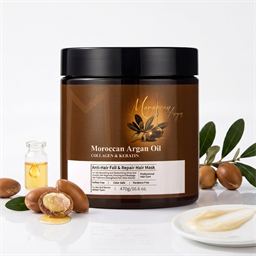
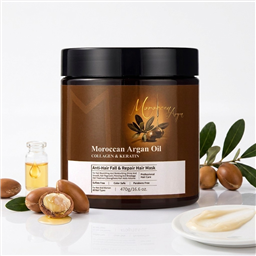
Add keratin mask benefit section photos with full-frame contain fit.

diff --git a/frontend/src/lib/products.ts b/frontend/src/lib/products.ts
@@ -10,6 +10,10 @@ export type Benefit = {
   title: string;
   body: string;
   imageLabel: string;
+  /** Optional section image; falls back to product.image */
+  image?: string;
+  imageAspect?: "square" | "wide" | "portrait";
+  imageFit?: "cover" | "contain";
 };
 
 export type ScienceBlock = { title: string; body: string; stat?: string };
@@ -71,7 +75,7 @@ export const products: Product[] = [
     heading: "من أول غسلة… شعركِ ينسرّح ويلمع كأنكِ طالعة من الصالون",
     sub: "ماسك الأرغان المغربي بالكولاجين والكيراتين — ٤٧٠غ بحجم الصالون. ترميم مظهري، تغذية، ولمعان تلمسينه بنفسكِ… بخصوصيتكِ في البيت.",
     emoji: "🧴",
-    image: "/images/products/keratin-collagen-mask.png",
+    image: "/images/products/keratin-collagen-mask.jpg?v=4",
     price: 219,
     rating: 4.9,
     reviewsCount: 2140,
@@ -140,16 +144,25 @@ export const products: Product[] = [
         title: "ترميم يُحسّ… مو بس يُقال",
         body: "الكيراتين والكولاجين يدعمون مظهر الشعرة التالفة ويقلّلون الإحساس بالتقصّف مع الترطيب العميق.",
         imageLabel: "ترميم",
+        image: "/images/products/keratin-collagen-mask-repair-section.jpg?v=3",
+        imageAspect: "portrait",
+        imageFit: "contain",
       },
       {
         title: "لمعان الأرغان المغربي",
         body: "زيت الأرغان يحبس الرطوبة ويمنح لمعان صالون — بدون ما تطلعين من بيتكِ.",
         imageLabel: "لمعان",
+        image: "/images/products/keratin-collagen-mask-shine.png?v=3",
+        imageAspect: "portrait",
+        imageFit: "contain",
       },
       {
         title: "تركيبة نظيفة تثقين فيها",
         body: "بدون سلفات وبارابين · لطيف على الصبغة · مدعوم بـ ISO 22716 وMSDS وCOA.",
         imageLabel: "شهادات",
+        image: "/images/products/keratin-collagen-mask-clean-section.jpg?v=4",
+        imageAspect: "portrait",
+        imageFit: "contain",
       },
     ],
     science: [

diff --git a/frontend/src/components/Section.tsx b/frontend/src/components/Section.tsx
@@ -13,6 +13,7 @@ export function Section({
   title,
   children,
   aspect = "wide",
+  imageFit = "cover",
   className,
 }: {
   imageLabel: string;
@@ -23,6 +24,7 @@ export function Section({
   title?: string;
   children?: ReactNode;
   aspect?: "square" | "wide" | "portrait";
+  imageFit?: "cover" | "contain";
   className?: string;
 }) {
   return (
@@ -35,7 +37,7 @@ export function Section({
       <div className={cn("relative order-1", reverse ? "md:order-2" : "md:order-1")}>
         <span className="blob -z-0 h-40 w-40 bg-brand-rose/40" style={reverse ? { right: "-1rem", top: "-1rem" } : { left: "-1rem", top: "-1rem" }} />
         <div className="relative rounded-3xl bg-white/40 p-2 shadow-card ring-1 ring-brand-rose/40">
-          <Media label={imageLabel} emoji={emoji} src={imageSrc} aspect={aspect} />
+          <Media label={imageLabel} emoji={emoji} src={imageSrc} aspect={aspect} fit={imageFit} />
         </div>
       </div>
       <div className={cn("order-2", reverse ? "md:order-1" : "md:order-2")}>

diff --git a/frontend/src/app/product/[slug]/page.tsx b/frontend/src/app/product/[slug]/page.tsx
@@ -88,6 +88,7 @@ export default function ProductPage({ params }: { params: { slug: string } }) {
                 emoji={product.emoji}
                 src={product.image}
                 aspect="square"
+                fit="contain"
               />
             </div>
           </div>
@@ -117,7 +118,9 @@ export default function ProductPage({ params }: { params: { slug: string } }) {
                 key={b.title}
                 imageLabel={b.imageLabel}
                 emoji={product.emoji}
-                imageSrc={product.image}
+                imageSrc={b.image || product.image}
+                aspect={b.imageAspect || "wide"}
+                imageFit={b.imageFit || (b.image ? "contain" : "cover")}
                 reverse={i % 2 === 1}
                 title={b.title}
               >

diff --git a/frontend/src/components/Media.tsx b/frontend/src/components/Media.tsx
@@ -16,12 +16,14 @@ export function Media({
   className,
   emoji,
   src,
+  fit = "cover",
 }: {
   label: string;
   aspect?: Aspect;
   className?: string;
   emoji?: string;
   src?: string;
+  fit?: "cover" | "contain";
 }) {
   return (
     <div
@@ -38,7 +40,7 @@ export function Media({
           src={src}
           alt={label}
           fill
-          className="object-cover"
+          className={fit === "contain" ? "object-contain p-1" : "object-cover"}
           sizes="(max-width: 768px) 100vw, 480px"
         />
       ) : (

diff --git a/frontend/src/components/ProductCard.tsx b/frontend/src/components/ProductCard.tsx
@@ -36,6 +36,7 @@ export function ProductCard({ product }: { product: Product }) {
           emoji={product.emoji}
           src={product.image}
           aspect="square"
+          fit="contain"
           className="rounded-none border-0"
         />
       </Link>
